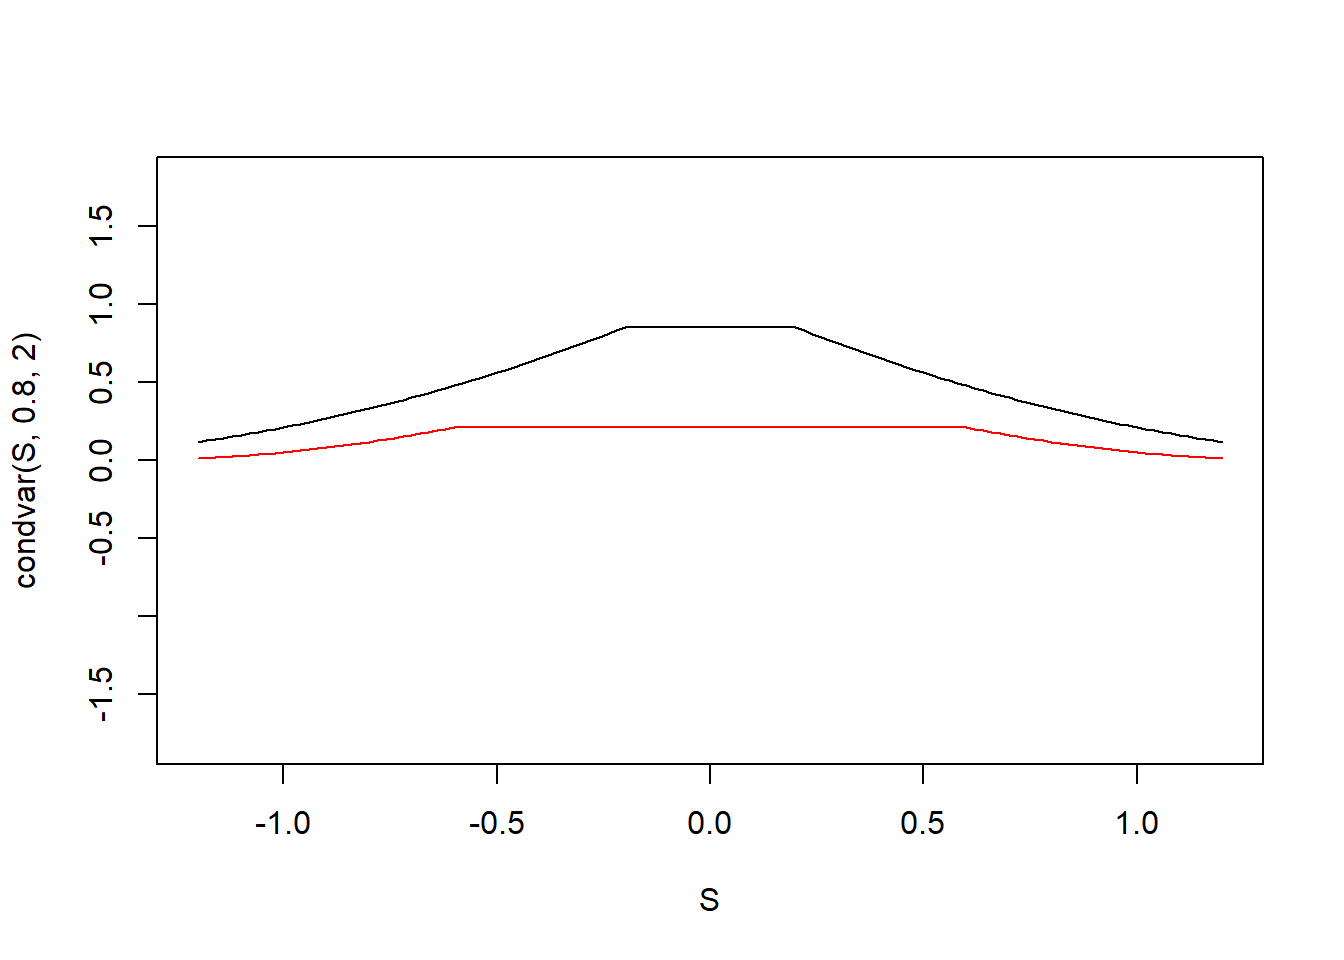
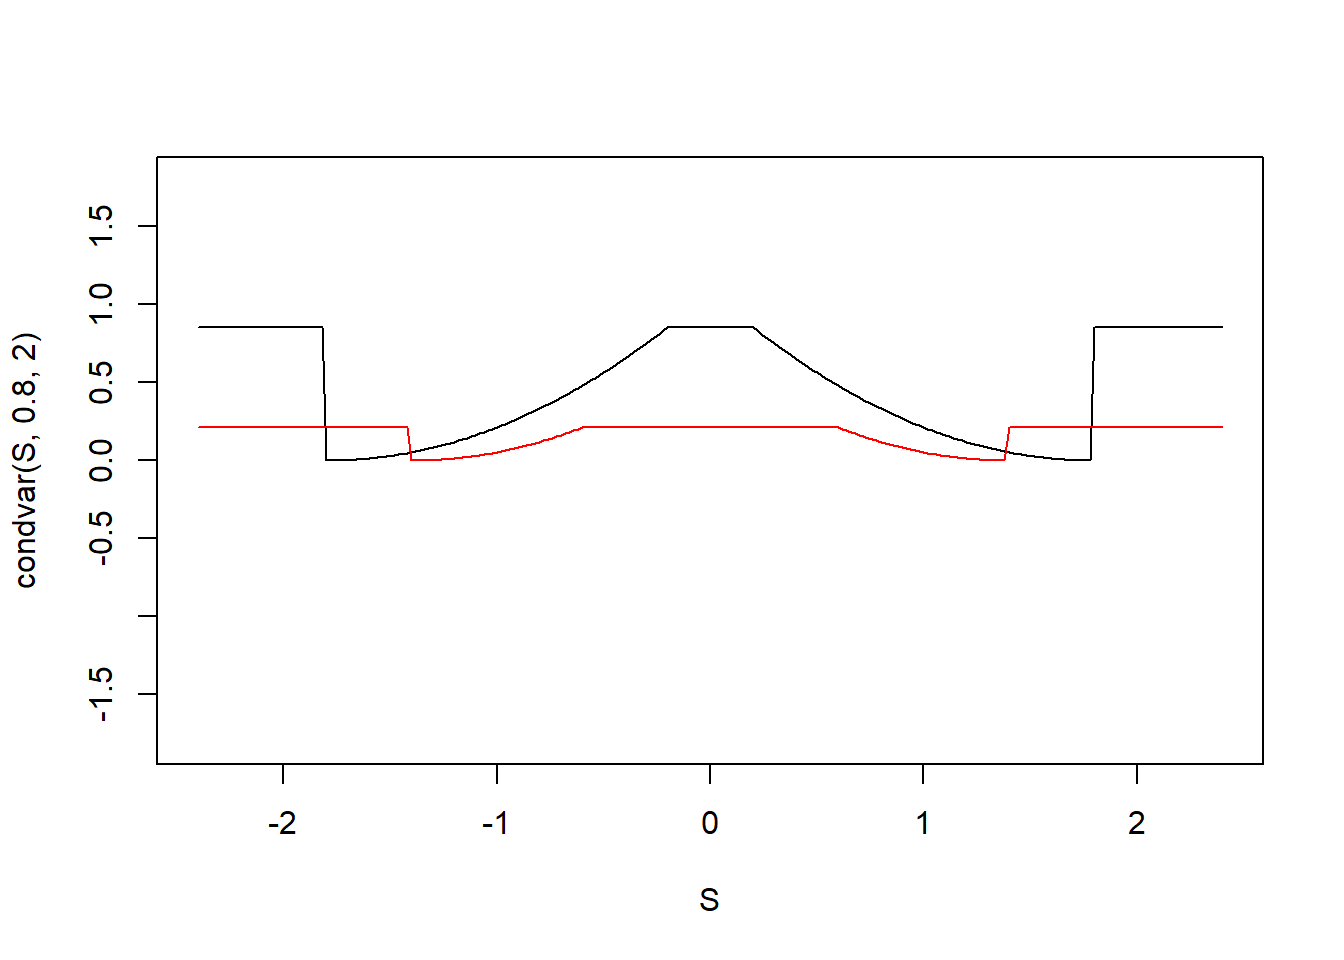
update

diff --git a/public/research/etf持股影响股票定价效率的理论模型推导/index.html b/public/research/etf持股影响股票定价效率的理论模型推导/index.html
@@ -219,7 +219,8 @@ V[F|S]
 <pre class="r"><code>pacman::p_load(future.apply,plyr,ETFpe)
 set.seed(100)
 theta=0.1
-au&lt;-af&lt;-2
+au&lt;-4
+af&lt;-2
 simamu=au^2/3
 c&lt;-0.2
 w=0.5
@@ -291,7 +292,8 @@ P=\left\{
 
 set.seed(100)
 theta=0.1
-au&lt;-af&lt;-2
+au&lt;-4
+af&lt;-2
 simamu=au^2/3
 c=0
 w=0.5
@@ -327,7 +329,8 @@ P=\left\{
 set.seed(100)
 
 theta=0.1
-au&lt;-af&lt;-2
+au&lt;-4
+af&lt;-2
 simamu=au^2/3
 c=seq(0,1,0.1)
 w=seq(0,1,0.1)
@@ -367,7 +370,8 @@ abline(h=max(mp$VR),col=&quot;red&quot;,lty=3)</code></pre>
 <p><img src="../../research/2021-01-14-etf持股影响股票定价效率的理论模型推导_files/figure-html/unnamed-chunk-3-4.png" width="672" /></p>
 <p>根据前面分析，我们知道交易成本和投资者知情概率是ETF持股比例的函数，交易成本随ETF持股比例递减，知情交易概率随ETF持股比例递增，不妨设其函数形式分别为<span class="math inline">\(c=1-\lambda\)</span>,<span class="math inline">\(w=\lambda\)</span>，则ETF持股对定价效率的影响的蒙特卡洛模拟如下：</p>
 <pre class="r"><code>theta=0.1
-au&lt;-af&lt;-2
+au&lt;-4
+af&lt;-2
 simamu=au^2/3
 c=seq(0,1,0.05)
 w=seq(0,1,0.05)
@@ -412,14 +416,14 @@ abline(h=0,col=&quot;red&quot;)</code></pre>
 <blockquote>
 <p>(3)信息不对称下卖空限制对定价效率的影响</p>
 </blockquote>
-<p>我们假设投资者受卖空限制约束，对于投资者<span class="math inline">\(i(i=I,U)\)</span>来说，其持有的股票头寸大于某个非正常数<span class="math inline">\(\theta_i\ge-b_i,b_i\ge0\)</span>，为了方便，我们假设卖空限制在同类投资者相同，但不同投资者者中不同，特别对于知情投资者来说，其可以持有空头头寸到<span class="math inline">\(b_i\)</span>。</p>
+<p>我们假设投资者受卖空限制约束，对于投资者<span class="math inline">\(i(i=I,U)\)</span>来说，其持有的股票头寸大于某个非正常数<span class="math inline">\(\theta_i\ge-b_i,b_i\ge0\)</span>，为了方便，我们假设卖空限制在同类投资者相同，但不同投资者者中不同，特别对于知情投资者来说，其可以持有空头头寸到<span class="math inline">\(b_i\)</span>，非知情交易者不受卖空限制约束。</p>
 <p>根据效用最大化一阶条件，投资者的最优持股为：</p>
 <p><span class="math display">\[\theta_i=max\bigg[\frac{(E[F|I_i]-P)}{Var[F|I_i]+\sigma_u^2},-b_i\bigg]\]</span>
 当信息对称时，与交易成本的类似，我们猜测一种均衡下的价格函数，在此价格函数下推到投资者的市场需求函数，为了简便，让<span class="math inline">\(c=1\)</span>,股票价格只取决于信号<span class="math inline">\(S=\frac{1}{2}(F-\varepsilon)\)</span>。在卖空限制下，投资者被阻挡在市场外，股票价格不在反应投资者者的需求，并独立于<span class="math inline">\(S\)</span>，当<span class="math inline">\(S\)</span>低于卖空限制门限<span class="math inline">\(z\)</span>时，股票价格为常数<span class="math inline">\(\bar p\)</span>，当<span class="math inline">\(S\)</span>大于卖空门限<span class="math inline">\(z\)</span>时，股票价格是<span class="math inline">\(S\)</span>的增函数，其中，<span class="math inline">\(\bar p\)</span>是<span class="math inline">\(S=z\)</span>时的股票价格，<span class="math inline">\(z&lt;0\)</span>。</p>
 <p>对于知情交易者来说，在信息集<span class="math inline">\(I=\{F,P\}\)</span>下的需求函数为：</p>
-<p><span class="math display">\[\theta_i=max\bigg[\frac{F-P}{\sigma_u^2},-b_I\bigg]\]</span></p>
+<p><span class="math display">\[\theta_I=max\bigg[\frac{F-P}{\sigma_u^2},-b_I\bigg]\]</span></p>
 <p>对于非知情交易者来说，在信息集<span class="math inline">\(I=\{F,P\}\)</span>下，<span class="math inline">\(E[F|I_U]=E[F|P]=E[F|S]\)</span>，<span class="math inline">\(Var[F|I_U]=Var[F|P]=Var[F|S]\)</span>。由于<span class="math inline">\(\varepsilon\)</span>与<span class="math inline">\(F\)</span>独立同分布，则其联合密度函数为<span class="math inline">\(f(F,\varepsilon)=f_F(F)f_{\varepsilon}(\varepsilon)\)</span>，且，<span class="math inline">\(\varepsilon=F-2S\)</span>。则<span class="math inline">\(S\)</span>的概率密度函数为：</p>
-<p><span class="math display">\[f(S)=\int f(F,F-2S)dF=\int f_F(F)f_{\varepsilon}(F-2S)dF\\
+<p><span class="math display">\[f(S)=\int f(F,F-2S)dF=\int f_F(F)f_{\varepsilon}(F-2S)dF \\
  \hspace{5cm}=\frac{1}{4a_F^2}\int I[-a_F&lt;F&lt;a_F]I[-a_F+2S&lt;F&lt;a_F+2S]dF\]</span>
 由于<span class="math inline">\(F\)</span>同时属于区间<span class="math inline">\([-a_F&lt;F&lt;a_F]\)</span>和<span class="math inline">\([-ca_F+2S&lt;F&lt;ca_F+2S]\)</span>，则需要取其交集，对<span class="math inline">\(S\)</span>进行讨论。</p>
 <p>当<span class="math inline">\(0\le S \le a_F\)</span>时，<span class="math inline">\(F\in[-a_F+2S,a_F]\)</span>，则</p>
@@ -438,6 +442,98 @@ abline(h=0,col=&quot;red&quot;)</code></pre>
 <p>所以</p>
 <p><span class="math display">\[f(F|S\le z)=\frac{f(F,S\le z)}{F(S\le z)}=\frac{a_F+2z-F}{2(a_F+z)^2}I[-a_F,2z+a_F](F)\]</span></p>
 <p>则<span class="math inline">\(E[F|S\le z]=\frac{1}{3}(2z-a_F)\)</span>,<span class="math inline">\(Var[F|P]=\frac{2}{9}(z+a_F)^2\)</span></p>
+<p>因此，条件期望和方差如下：</p>
+<p><span class="math display">\[\begin{equation}
+E[F|S]
+=\left\{
+\begin{aligned}
+&amp;S \hspace{3.5cm}  z&lt;S \\
+&amp;\frac{1}{3}(2z-a_F)\hspace{1cm} z\le S  \\
+\end{aligned}
+\right.
+\end{equation}\]</span></p>
+<p><span class="math display">\[\begin{equation}
+V[F|S]
+=\left\{
+\begin{aligned}
+&amp;\frac{1}{3}(a_F-|S|)^2,\hspace{1cm}z&lt; S \\
+&amp;\frac{2}{9}(z+a_F)^2,\hspace{1.5cm}z\le S\\
+\end{aligned}
+\right.
+\end{equation}\]</span></p>
+<p>非知情交易者的需求函数可以表示为：</p>
+<p><span class="math display">\[\begin{equation}
+\theta_U=\left\{
+\begin{aligned}
+&amp;\frac{S-P}{\frac{1}{3}(a_F-|S|)^2+\sigma_u^2},\hspace{0.5cm} S&gt; z\\
+&amp;\frac{\frac{1}{3}(2z-a_F)-P}{\frac{2}{9}(z+a_F)^2+\sigma_u^2},\hspace{0.5cm} S \le z\\  
+\end{aligned}
+\right.
+\end{equation}\]</span></p>
+<p>由于非知情交易者不受卖空限制约束，知情交易者的卖空限制约束为<span class="math inline">\(-b\)</span>,因此，我们需要确定知情交易者受卖空限制和不受卖空限制的临界条件。</p>
+<p>当<span class="math inline">\(S&gt;z\)</span>时，知情投资者的需求为<span class="math inline">\(\frac{F-P}{\sigma_u^2}\)</span>或<span class="math inline">\(-b\)</span>，将该需求代入市场出清条件，可以得到对应的均衡价格。</p>
+<blockquote>
+<p><strong>知情投资者不受卖空限制的均衡价格</strong>，即<span class="math inline">\(\frac{F-P}{\sigma_u^2}&gt;-b\)</span>时市场出清条件为：</p>
+</blockquote>
+<p><span class="math display">\[w\frac{F-P}{\sigma_u^2}+(1-w)\frac{S-P}{\frac{1}{3}(a_F-|S|)^2+\sigma_u^2}=\bar\theta\]</span></p>
+<p>解得均衡价格为：</p>
+<p><span class="math display">\[P=2S+\varepsilon-\bar\theta\sigma_u^2-(1-w)\frac{S+\varepsilon+\frac{1}{3}(a_F-|S|)^2\bar\theta}{1+w\frac{1}{3}(a_F-|S|)^2/\sigma_u^2}\]</span>
+将均衡价格代入知情交易者不受卖空限制约束的条件，求解S，便得到投资者不受卖空限制约束的条件，即</p>
+<p><span class="math display">\[\bar\theta\sigma_u^2+(1-w)\frac{S+\varepsilon+\frac{1}{3}(a_F-|S|)^2\bar\theta}{1+w\frac{1}{3}(a_F-|S|)^2/\sigma_u^2}&gt;-b\sigma_u^2\]</span>
+由于<span class="math inline">\(S&gt;=0\)</span>,投资者不受卖空限制约束，所以，我们只讨论<span class="math inline">\(S&lt;0\)</span>的情况，此时，投资者不受卖空限制约束的条件为:</p>
+<p><span class="math display">\[\bar\theta\sigma_u^2-(1-w)\frac{S+\varepsilon+\frac{1}{3}(a_F+S)^2\bar\theta}{1+w\frac{1}{3}(a_F+S)^2/\sigma_u^2}&gt;-b\sigma_u^2\]</span>
+解得</p>
+<p><span class="math display">\[S&gt;-a_F-\frac{3}{2}(w\hat b+\hat \theta)^{-1}+\frac{3}{2}\sqrt{(w\hat b+\hat \theta)^{-2}+\frac{4}{3}(a_F+\varepsilon)(w\hat b+\hat \theta)^{-1}-\frac{4}{3}(\hat b+\hat \theta)(w\hat b+\hat \theta)^{-1}\sigma_u^2}\]</span>
+其中<span class="math inline">\(\bar b=b/(1-w)\)</span>,<span class="math inline">\(\hat \theta=\theta/(1-w)\)</span>。因此，投资者不受卖空限制的临界点为：</p>
+<p><span class="math display">\[z^*=-a_F-\frac{3}{2}(w\hat b+\hat \theta)^{-1}+\frac{3}{2}\sqrt{(w\hat b+\hat \theta)^{-2}+\frac{4}{3}(a_F-\varepsilon)(w\hat b+\hat \theta)^{-1}-\frac{4}{3}(\hat b+\hat \theta)(w\hat b+\hat \theta)^{-1}\sigma_u^2}\]</span></p>
+<p><strong>知情投资者持股等于卖空限量<span class="math inline">\(-b\)</span>,不受卖空限制</strong>，市场出清条件为：</p>
+<p><span class="math display">\[-wb+(1-w)\frac{S-P}{\frac{1}{3}(a_F-|S|)^2+\sigma_u^2}=\bar\theta\]</span></p>
+<p>解得均衡价格为：</p>
+<p><span class="math display">\[P=S-(w b+\hat \theta)\bigg[\frac{1}{3}(a_F-|S|)^2+\sigma_u^2\bigg]\]</span>
+其中<span class="math inline">\(\bar b=b/(1-w)\)</span>,<span class="math inline">\(\hat \theta=\theta/(1-w)\)</span>。</p>
+<p>此时，<span class="math inline">\(S=z\)</span>,投资者受卖空限制约束，此时市场出清条件为：</p>
+<p><span class="math display">\[-wb+(1-w)\frac{\frac{1}{3}(2z-a_F)-P}{\frac{2}{9}(z+a_F)^2+\sigma_u^2}=\bar\theta\]</span>
+解得均衡价格为</p>
+<p><span class="math display">\[P=\frac{1}{3}(2z-a_F)-(w\hat b+\hat \theta)(\frac{2}{9}(z+a_F)^2+\sigma_u^2)\]</span>
+将均衡价格代入卖空限制约束条件，<span class="math inline">\(\frac{F-P}{\sigma_u^2}=-b\)</span>得：</p>
+<p>解得</p>
+<p><span class="math display">\[z=-a_F-3(w\hat b+\hat \theta)^{-1}+3\sqrt{(w\hat b+\hat \theta)^{-2}+\frac{1}{2}(a_F-\varepsilon)(w\hat b+\hat \theta)^{-1}-\frac{1}{2}(\hat b+\hat \theta)(w\hat b+\hat \theta)^{-1}\sigma_u^2}\]</span></p>
+<p>当<span class="math inline">\(S&lt; z\)</span>时，知情投资者的需求不能得到满足，只能实现<span class="math inline">\(-b\)</span>，此时市场无法出清，市场价格有卖空限制条件决定。即<span class="math inline">\(\frac{2S+\varepsilon-P}{\sigma_u^2}=-b\)</span>,且<span class="math inline">\(S=z\)</span></p>
+<p>解得均衡价格为：</p>
+<p><span class="math display">\[P=2z+\varepsilon+b\sigma_u^2\]</span>
+综上所述，股票均衡价格为：</p>
+<p><span class="math display">\[\begin{equation}
+P=\left\{
+\begin{aligned}
+&amp;2S+\varepsilon-\bar\theta\sigma_u^2-(1-w)\frac{S+\varepsilon+\frac{1}{3}(a_F-|S|)^2\bar\theta}{1+w\frac{1}{3}(a_F-|S|)^2/\sigma_u^2},\hspace{0.5cm} S &gt; z^*  \\
+&amp;S-(w\hat b+\hat \theta)\bigg[\frac{1}{3}(a_F-|S|)^2+\sigma_u^2\bigg],\hspace{0.5cm}z&lt; S\le z^* \\
+&amp;2z+\varepsilon+b\sigma_u^2,\hspace{0.5cm}  S\le z  
+\end{aligned}
+\right.
+\end{equation}\]</span></p>
+<p>市场出清时，投资者的需求为：</p>
+<blockquote>
+<p>知情投资者的需求函数</p>
+</blockquote>
+<p><span class="math display">\[\begin{equation}
+\theta_I=\left\{
+\begin{aligned}
+&amp;\bar\theta+(1-w)\frac{S+c\varepsilon+\frac{1}{12}[a_F-|S|]^2\bar\theta}{\sigma_u^2+w\frac{1}{12}[a_F-|S|]^2},\hspace{0.5cm} S &gt; z^* \\
+&amp;-b,\hspace{0.5cm} S&lt;z^* \\
+\end{aligned}
+\right.
+\end{equation}\]</span></p>
+<blockquote>
+<p>非知情投资者的需求函数</p>
+</blockquote>
+<p><span class="math display">\[\begin{equation}
+\theta_U=\left\{
+\begin{aligned}
+&amp;\bar\theta-w\frac{S+c\varepsilon+\frac{1}{12}[a_F-|S|]^2\bar\theta}{\sigma_u^2+w\frac{1}{12}[a_F-|S|]^2},\hspace{0.5cm} S &gt; z^* \\
+&amp;\hat \theta +w\hat b,\hspace{0.5cm} S&lt;z^* \\
+\end{aligned}
+\right.
+\end{equation}\]</span></p>
 </div>
 
 

diff --git a/content/research/2021-01-14-etf持股影响股票定价效率的理论模型推导.html b/content/research/2021-01-14-etf持股影响股票定价效率的理论模型推导.html
@@ -138,7 +138,8 @@ V[F|S]
 <pre class="r"><code>pacman::p_load(future.apply,plyr,ETFpe)
 set.seed(100)
 theta=0.1
-au&lt;-af&lt;-2
+au&lt;-4
+af&lt;-2
 simamu=au^2/3
 c&lt;-0.2
 w=0.5
@@ -210,7 +211,8 @@ P=\left\{
 
 set.seed(100)
 theta=0.1
-au&lt;-af&lt;-2
+au&lt;-4
+af&lt;-2
 simamu=au^2/3
 c=0
 w=0.5
@@ -246,7 +248,8 @@ P=\left\{
 set.seed(100)
 
 theta=0.1
-au&lt;-af&lt;-2
+au&lt;-4
+af&lt;-2
 simamu=au^2/3
 c=seq(0,1,0.1)
 w=seq(0,1,0.1)
@@ -286,7 +289,8 @@ abline(h=max(mp$VR),col=&quot;red&quot;,lty=3)</code></pre>
 <p><img src="/research/2021-01-14-etf持股影响股票定价效率的理论模型推导_files/figure-html/unnamed-chunk-3-4.png" width="672" /></p>
 <p>根据前面分析，我们知道交易成本和投资者知情概率是ETF持股比例的函数，交易成本随ETF持股比例递减，知情交易概率随ETF持股比例递增，不妨设其函数形式分别为<span class="math inline">\(c=1-\lambda\)</span>,<span class="math inline">\(w=\lambda\)</span>，则ETF持股对定价效率的影响的蒙特卡洛模拟如下：</p>
 <pre class="r"><code>theta=0.1
-au&lt;-af&lt;-2
+au&lt;-4
+af&lt;-2
 simamu=au^2/3
 c=seq(0,1,0.05)
 w=seq(0,1,0.05)
@@ -331,14 +335,14 @@ abline(h=0,col=&quot;red&quot;)</code></pre>
 <blockquote>
 <p>(3)信息不对称下卖空限制对定价效率的影响</p>
 </blockquote>
-<p>我们假设投资者受卖空限制约束，对于投资者<span class="math inline">\(i(i=I,U)\)</span>来说，其持有的股票头寸大于某个非正常数<span class="math inline">\(\theta_i\ge-b_i,b_i\ge0\)</span>，为了方便，我们假设卖空限制在同类投资者相同，但不同投资者者中不同，特别对于知情投资者来说，其可以持有空头头寸到<span class="math inline">\(b_i\)</span>。</p>
+<p>我们假设投资者受卖空限制约束，对于投资者<span class="math inline">\(i(i=I,U)\)</span>来说，其持有的股票头寸大于某个非正常数<span class="math inline">\(\theta_i\ge-b_i,b_i\ge0\)</span>，为了方便，我们假设卖空限制在同类投资者相同，但不同投资者者中不同，特别对于知情投资者来说，其可以持有空头头寸到<span class="math inline">\(b_i\)</span>，非知情交易者不受卖空限制约束。</p>
 <p>根据效用最大化一阶条件，投资者的最优持股为：</p>
 <p><span class="math display">\[\theta_i=max\bigg[\frac{(E[F|I_i]-P)}{Var[F|I_i]+\sigma_u^2},-b_i\bigg]\]</span>
 当信息对称时，与交易成本的类似，我们猜测一种均衡下的价格函数，在此价格函数下推到投资者的市场需求函数，为了简便，让<span class="math inline">\(c=1\)</span>,股票价格只取决于信号<span class="math inline">\(S=\frac{1}{2}(F-\varepsilon)\)</span>。在卖空限制下，投资者被阻挡在市场外，股票价格不在反应投资者者的需求，并独立于<span class="math inline">\(S\)</span>，当<span class="math inline">\(S\)</span>低于卖空限制门限<span class="math inline">\(z\)</span>时，股票价格为常数<span class="math inline">\(\bar p\)</span>，当<span class="math inline">\(S\)</span>大于卖空门限<span class="math inline">\(z\)</span>时，股票价格是<span class="math inline">\(S\)</span>的增函数，其中，<span class="math inline">\(\bar p\)</span>是<span class="math inline">\(S=z\)</span>时的股票价格，<span class="math inline">\(z&lt;0\)</span>。</p>
 <p>对于知情交易者来说，在信息集<span class="math inline">\(I=\{F,P\}\)</span>下的需求函数为：</p>
-<p><span class="math display">\[\theta_i=max\bigg[\frac{F-P}{\sigma_u^2},-b_I\bigg]\]</span></p>
+<p><span class="math display">\[\theta_I=max\bigg[\frac{F-P}{\sigma_u^2},-b_I\bigg]\]</span></p>
 <p>对于非知情交易者来说，在信息集<span class="math inline">\(I=\{F,P\}\)</span>下，<span class="math inline">\(E[F|I_U]=E[F|P]=E[F|S]\)</span>，<span class="math inline">\(Var[F|I_U]=Var[F|P]=Var[F|S]\)</span>。由于<span class="math inline">\(\varepsilon\)</span>与<span class="math inline">\(F\)</span>独立同分布，则其联合密度函数为<span class="math inline">\(f(F,\varepsilon)=f_F(F)f_{\varepsilon}(\varepsilon)\)</span>，且，<span class="math inline">\(\varepsilon=F-2S\)</span>。则<span class="math inline">\(S\)</span>的概率密度函数为：</p>
-<p><span class="math display">\[f(S)=\int f(F,F-2S)dF=\int f_F(F)f_{\varepsilon}(F-2S)dF\\
+<p><span class="math display">\[f(S)=\int f(F,F-2S)dF=\int f_F(F)f_{\varepsilon}(F-2S)dF \\
  \hspace{5cm}=\frac{1}{4a_F^2}\int I[-a_F&lt;F&lt;a_F]I[-a_F+2S&lt;F&lt;a_F+2S]dF\]</span>
 由于<span class="math inline">\(F\)</span>同时属于区间<span class="math inline">\([-a_F&lt;F&lt;a_F]\)</span>和<span class="math inline">\([-ca_F+2S&lt;F&lt;ca_F+2S]\)</span>，则需要取其交集，对<span class="math inline">\(S\)</span>进行讨论。</p>
 <p>当<span class="math inline">\(0\le S \le a_F\)</span>时，<span class="math inline">\(F\in[-a_F+2S,a_F]\)</span>，则</p>
@@ -357,4 +361,96 @@ abline(h=0,col=&quot;red&quot;)</code></pre>
 <p>所以</p>
 <p><span class="math display">\[f(F|S\le z)=\frac{f(F,S\le z)}{F(S\le z)}=\frac{a_F+2z-F}{2(a_F+z)^2}I[-a_F,2z+a_F](F)\]</span></p>
 <p>则<span class="math inline">\(E[F|S\le z]=\frac{1}{3}(2z-a_F)\)</span>,<span class="math inline">\(Var[F|P]=\frac{2}{9}(z+a_F)^2\)</span></p>
+<p>因此，条件期望和方差如下：</p>
+<p><span class="math display">\[\begin{equation}
+E[F|S]
+=\left\{
+\begin{aligned}
+&amp;S \hspace{3.5cm}  z&lt;S \\
+&amp;\frac{1}{3}(2z-a_F)\hspace{1cm} z\le S  \\
+\end{aligned}
+\right.
+\end{equation}\]</span></p>
+<p><span class="math display">\[\begin{equation}
+V[F|S]
+=\left\{
+\begin{aligned}
+&amp;\frac{1}{3}(a_F-|S|)^2,\hspace{1cm}z&lt; S \\
+&amp;\frac{2}{9}(z+a_F)^2,\hspace{1.5cm}z\le S\\
+\end{aligned}
+\right.
+\end{equation}\]</span></p>
+<p>非知情交易者的需求函数可以表示为：</p>
+<p><span class="math display">\[\begin{equation}
+\theta_U=\left\{
+\begin{aligned}
+&amp;\frac{S-P}{\frac{1}{3}(a_F-|S|)^2+\sigma_u^2},\hspace{0.5cm} S&gt; z\\
+&amp;\frac{\frac{1}{3}(2z-a_F)-P}{\frac{2}{9}(z+a_F)^2+\sigma_u^2},\hspace{0.5cm} S \le z\\  
+\end{aligned}
+\right.
+\end{equation}\]</span></p>
+<p>由于非知情交易者不受卖空限制约束，知情交易者的卖空限制约束为<span class="math inline">\(-b\)</span>,因此，我们需要确定知情交易者受卖空限制和不受卖空限制的临界条件。</p>
+<p>当<span class="math inline">\(S&gt;z\)</span>时，知情投资者的需求为<span class="math inline">\(\frac{F-P}{\sigma_u^2}\)</span>或<span class="math inline">\(-b\)</span>，将该需求代入市场出清条件，可以得到对应的均衡价格。</p>
+<blockquote>
+<p><strong>知情投资者不受卖空限制的均衡价格</strong>，即<span class="math inline">\(\frac{F-P}{\sigma_u^2}&gt;-b\)</span>时市场出清条件为：</p>
+</blockquote>
+<p><span class="math display">\[w\frac{F-P}{\sigma_u^2}+(1-w)\frac{S-P}{\frac{1}{3}(a_F-|S|)^2+\sigma_u^2}=\bar\theta\]</span></p>
+<p>解得均衡价格为：</p>
+<p><span class="math display">\[P=2S+\varepsilon-\bar\theta\sigma_u^2-(1-w)\frac{S+\varepsilon+\frac{1}{3}(a_F-|S|)^2\bar\theta}{1+w\frac{1}{3}(a_F-|S|)^2/\sigma_u^2}\]</span>
+将均衡价格代入知情交易者不受卖空限制约束的条件，求解S，便得到投资者不受卖空限制约束的条件，即</p>
+<p><span class="math display">\[\bar\theta\sigma_u^2+(1-w)\frac{S+\varepsilon+\frac{1}{3}(a_F-|S|)^2\bar\theta}{1+w\frac{1}{3}(a_F-|S|)^2/\sigma_u^2}&gt;-b\sigma_u^2\]</span>
+由于<span class="math inline">\(S&gt;=0\)</span>,投资者不受卖空限制约束，所以，我们只讨论<span class="math inline">\(S&lt;0\)</span>的情况，此时，投资者不受卖空限制约束的条件为:</p>
+<p><span class="math display">\[\bar\theta\sigma_u^2-(1-w)\frac{S+\varepsilon+\frac{1}{3}(a_F+S)^2\bar\theta}{1+w\frac{1}{3}(a_F+S)^2/\sigma_u^2}&gt;-b\sigma_u^2\]</span>
+解得</p>
+<p><span class="math display">\[S&gt;-a_F-\frac{3}{2}(w\hat b+\hat \theta)^{-1}+\frac{3}{2}\sqrt{(w\hat b+\hat \theta)^{-2}+\frac{4}{3}(a_F+\varepsilon)(w\hat b+\hat \theta)^{-1}-\frac{4}{3}(\hat b+\hat \theta)(w\hat b+\hat \theta)^{-1}\sigma_u^2}\]</span>
+其中<span class="math inline">\(\bar b=b/(1-w)\)</span>,<span class="math inline">\(\hat \theta=\theta/(1-w)\)</span>。因此，投资者不受卖空限制的临界点为：</p>
+<p><span class="math display">\[z^*=-a_F-\frac{3}{2}(w\hat b+\hat \theta)^{-1}+\frac{3}{2}\sqrt{(w\hat b+\hat \theta)^{-2}+\frac{4}{3}(a_F-\varepsilon)(w\hat b+\hat \theta)^{-1}-\frac{4}{3}(\hat b+\hat \theta)(w\hat b+\hat \theta)^{-1}\sigma_u^2}\]</span></p>
+<p><strong>知情投资者持股等于卖空限量<span class="math inline">\(-b\)</span>,不受卖空限制</strong>，市场出清条件为：</p>
+<p><span class="math display">\[-wb+(1-w)\frac{S-P}{\frac{1}{3}(a_F-|S|)^2+\sigma_u^2}=\bar\theta\]</span></p>
+<p>解得均衡价格为：</p>
+<p><span class="math display">\[P=S-(w b+\hat \theta)\bigg[\frac{1}{3}(a_F-|S|)^2+\sigma_u^2\bigg]\]</span>
+其中<span class="math inline">\(\bar b=b/(1-w)\)</span>,<span class="math inline">\(\hat \theta=\theta/(1-w)\)</span>。</p>
+<p>此时，<span class="math inline">\(S=z\)</span>,投资者受卖空限制约束，此时市场出清条件为：</p>
+<p><span class="math display">\[-wb+(1-w)\frac{\frac{1}{3}(2z-a_F)-P}{\frac{2}{9}(z+a_F)^2+\sigma_u^2}=\bar\theta\]</span>
+解得均衡价格为</p>
+<p><span class="math display">\[P=\frac{1}{3}(2z-a_F)-(w\hat b+\hat \theta)(\frac{2}{9}(z+a_F)^2+\sigma_u^2)\]</span>
+将均衡价格代入卖空限制约束条件，<span class="math inline">\(\frac{F-P}{\sigma_u^2}=-b\)</span>得：</p>
+<p>解得</p>
+<p><span class="math display">\[z=-a_F-3(w\hat b+\hat \theta)^{-1}+3\sqrt{(w\hat b+\hat \theta)^{-2}+\frac{1}{2}(a_F-\varepsilon)(w\hat b+\hat \theta)^{-1}-\frac{1}{2}(\hat b+\hat \theta)(w\hat b+\hat \theta)^{-1}\sigma_u^2}\]</span></p>
+<p>当<span class="math inline">\(S&lt; z\)</span>时，知情投资者的需求不能得到满足，只能实现<span class="math inline">\(-b\)</span>，此时市场无法出清，市场价格有卖空限制条件决定。即<span class="math inline">\(\frac{2S+\varepsilon-P}{\sigma_u^2}=-b\)</span>,且<span class="math inline">\(S=z\)</span></p>
+<p>解得均衡价格为：</p>
+<p><span class="math display">\[P=2z+\varepsilon+b\sigma_u^2\]</span>
+综上所述，股票均衡价格为：</p>
+<p><span class="math display">\[\begin{equation}
+P=\left\{
+\begin{aligned}
+&amp;2S+\varepsilon-\bar\theta\sigma_u^2-(1-w)\frac{S+\varepsilon+\frac{1}{3}(a_F-|S|)^2\bar\theta}{1+w\frac{1}{3}(a_F-|S|)^2/\sigma_u^2},\hspace{0.5cm} S &gt; z^*  \\
+&amp;S-(w\hat b+\hat \theta)\bigg[\frac{1}{3}(a_F-|S|)^2+\sigma_u^2\bigg],\hspace{0.5cm}z&lt; S\le z^* \\
+&amp;2z+\varepsilon+b\sigma_u^2,\hspace{0.5cm}  S\le z  
+\end{aligned}
+\right.
+\end{equation}\]</span></p>
+<p>市场出清时，投资者的需求为：</p>
+<blockquote>
+<p>知情投资者的需求函数</p>
+</blockquote>
+<p><span class="math display">\[\begin{equation}
+\theta_I=\left\{
+\begin{aligned}
+&amp;\bar\theta+(1-w)\frac{S+c\varepsilon+\frac{1}{12}[a_F-|S|]^2\bar\theta}{\sigma_u^2+w\frac{1}{12}[a_F-|S|]^2},\hspace{0.5cm} S &gt; z^* \\
+&amp;-b,\hspace{0.5cm} S&lt;z^* \\
+\end{aligned}
+\right.
+\end{equation}\]</span></p>
+<blockquote>
+<p>非知情投资者的需求函数</p>
+</blockquote>
+<p><span class="math display">\[\begin{equation}
+\theta_U=\left\{
+\begin{aligned}
+&amp;\bar\theta-w\frac{S+c\varepsilon+\frac{1}{12}[a_F-|S|]^2\bar\theta}{\sigma_u^2+w\frac{1}{12}[a_F-|S|]^2},\hspace{0.5cm} S &gt; z^* \\
+&amp;\hat \theta +w\hat b,\hspace{0.5cm} S&lt;z^* \\
+\end{aligned}
+\right.
+\end{equation}\]</span></p>
 </div>
